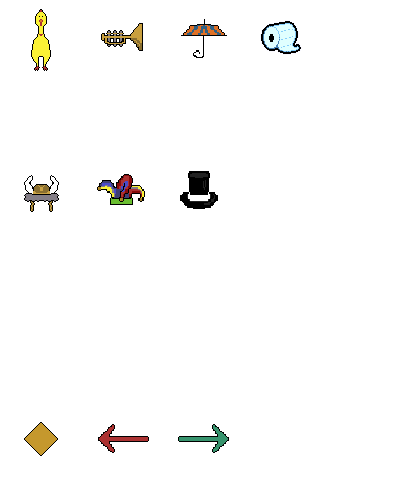
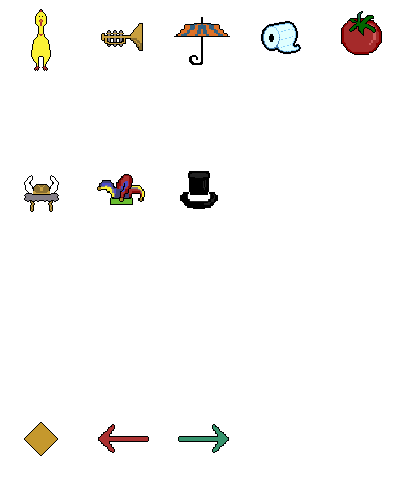
Add tomato; make umbrella larger

Changed region(s): [[0.84, 0.03, 0.96, 0.12], [0.45, 0.03, 0.57, 0.15]]

diff --git a/src/constants.ts b/src/constants.ts
@@ -9,6 +9,7 @@ export enum StageProps {
   trumpet = "trumpet",
   umbrella = "umbrella",
   toiletPaper = "toiletPaper",
+  tomato = "tomato",
 }
 
 export enum Costumes {
@@ -22,6 +23,7 @@ export const IconPosition = {
   trumpet: 1,
   umbrella: 2,
   toiletPaper: 3,
+  tomato: 4,
   vikingHat: 10,
   jesterHat: 11,
   topHat: 12,
